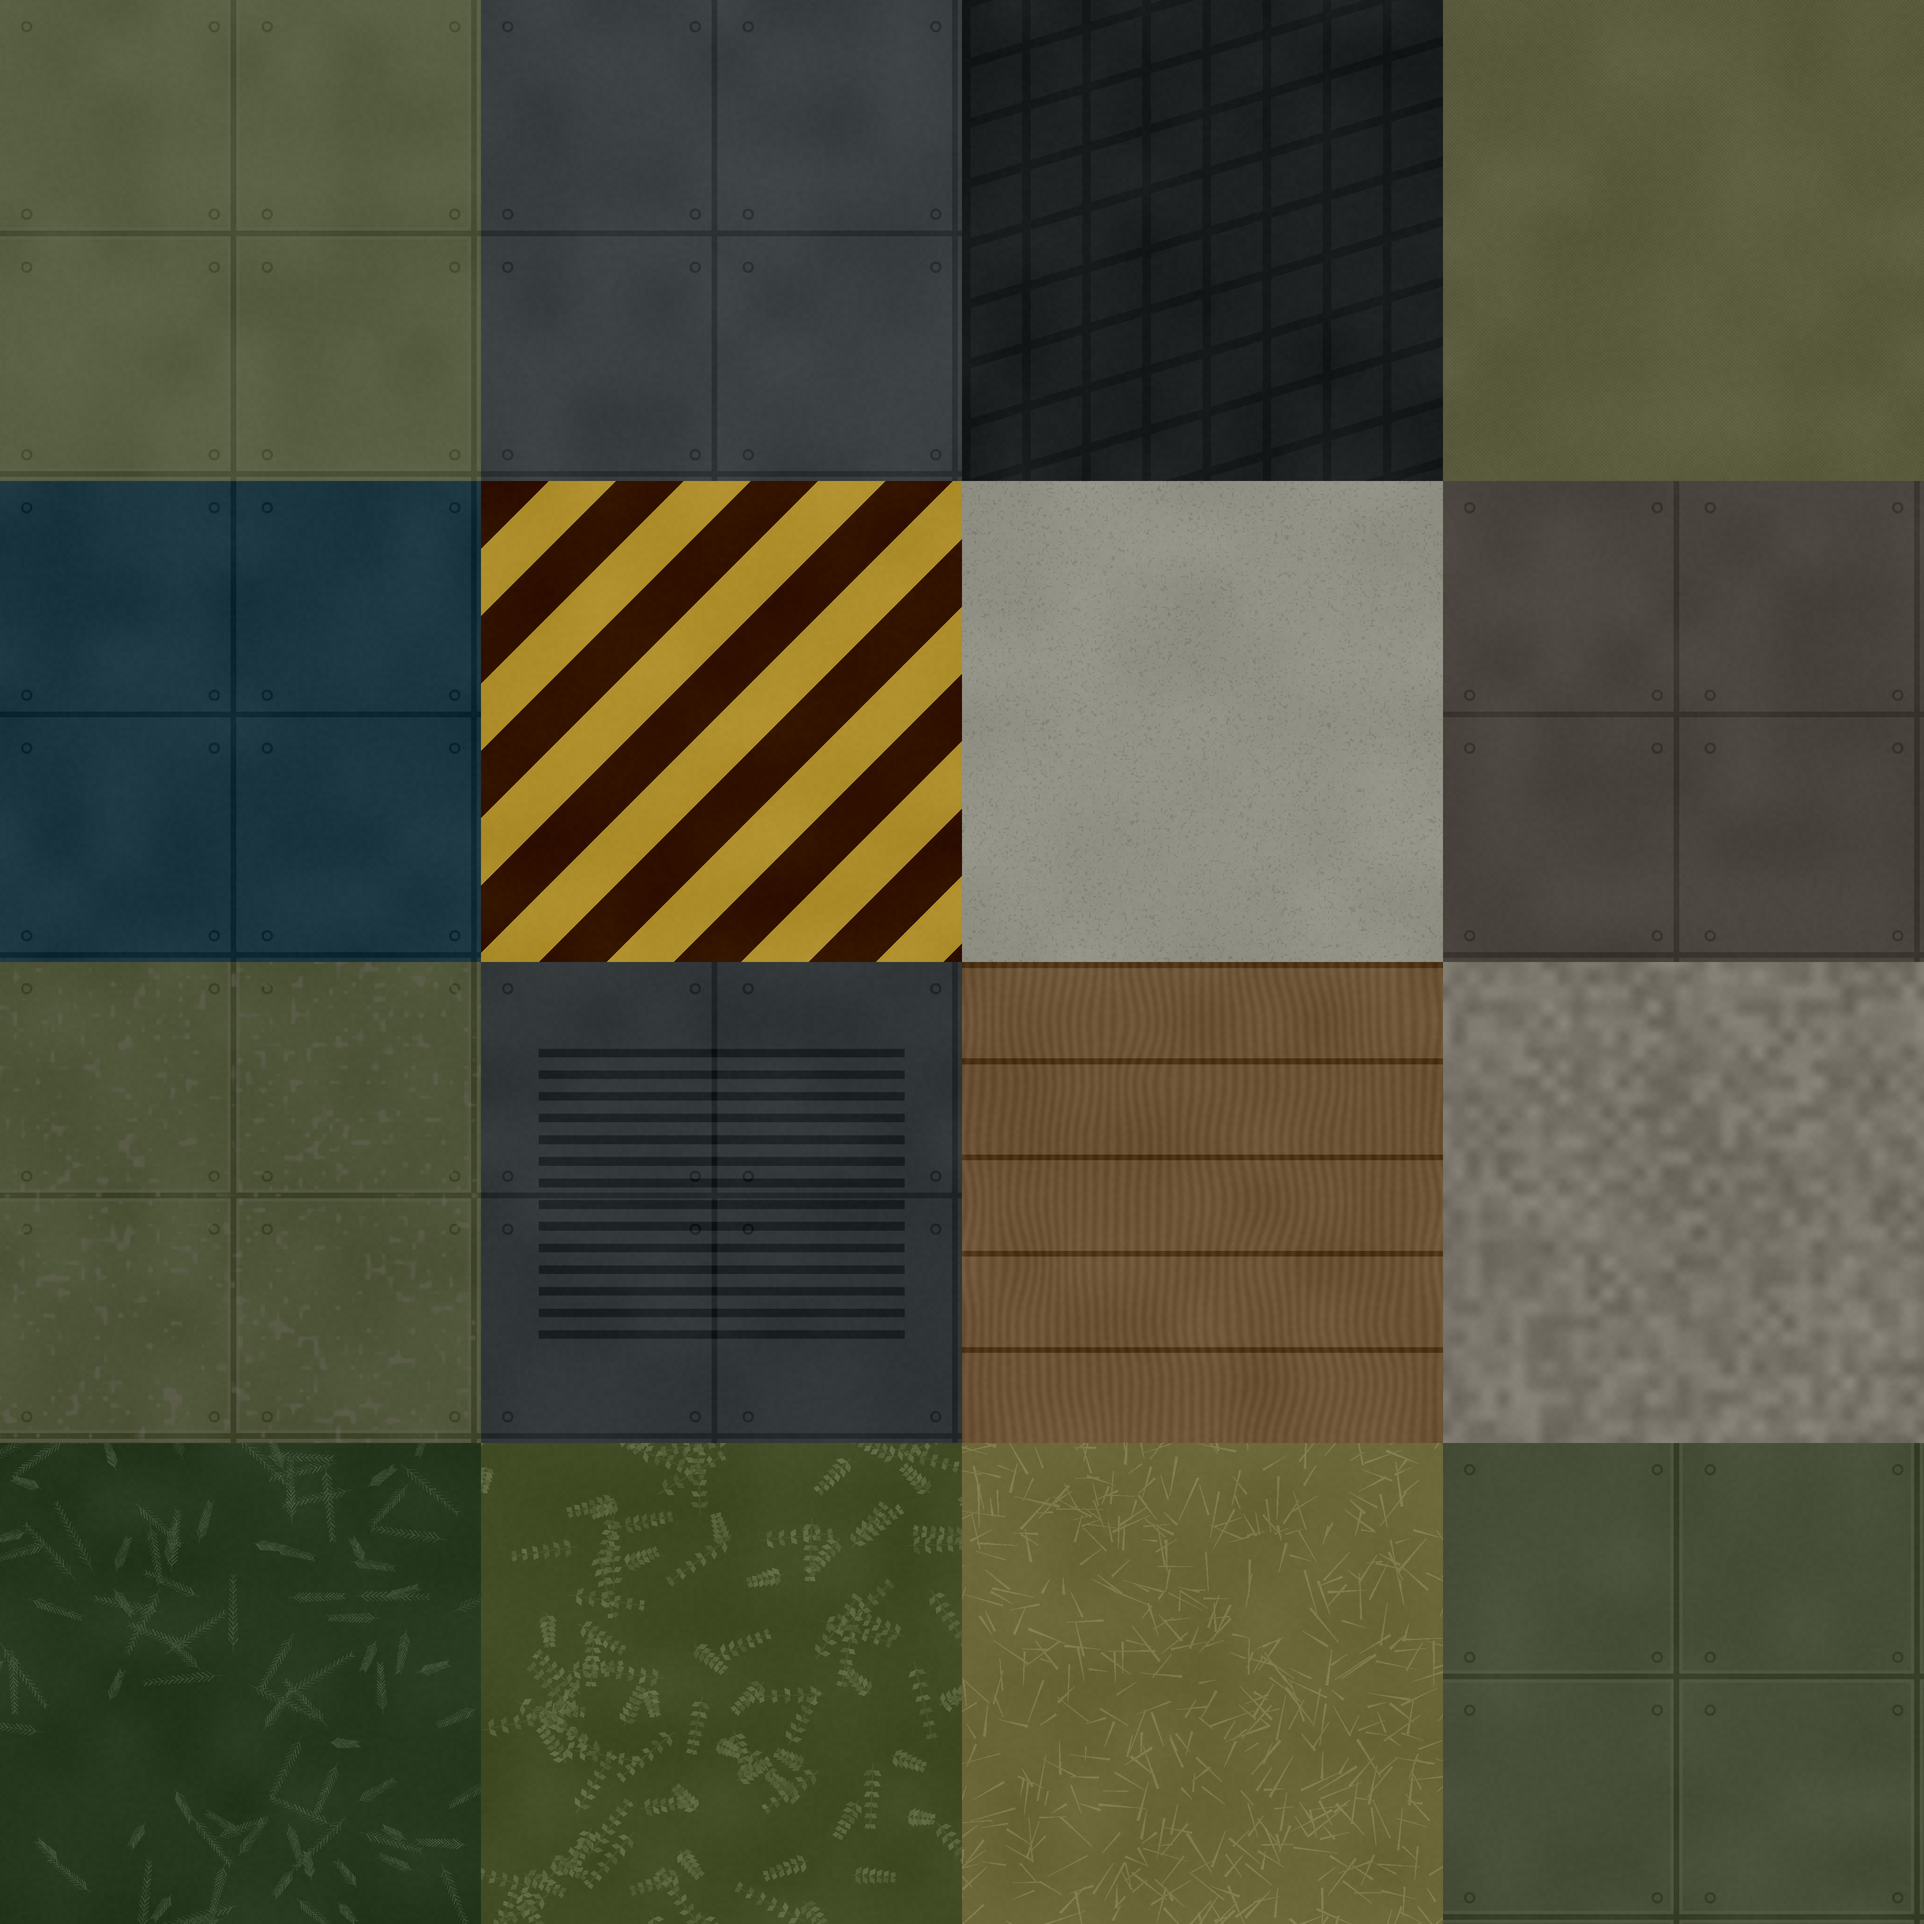
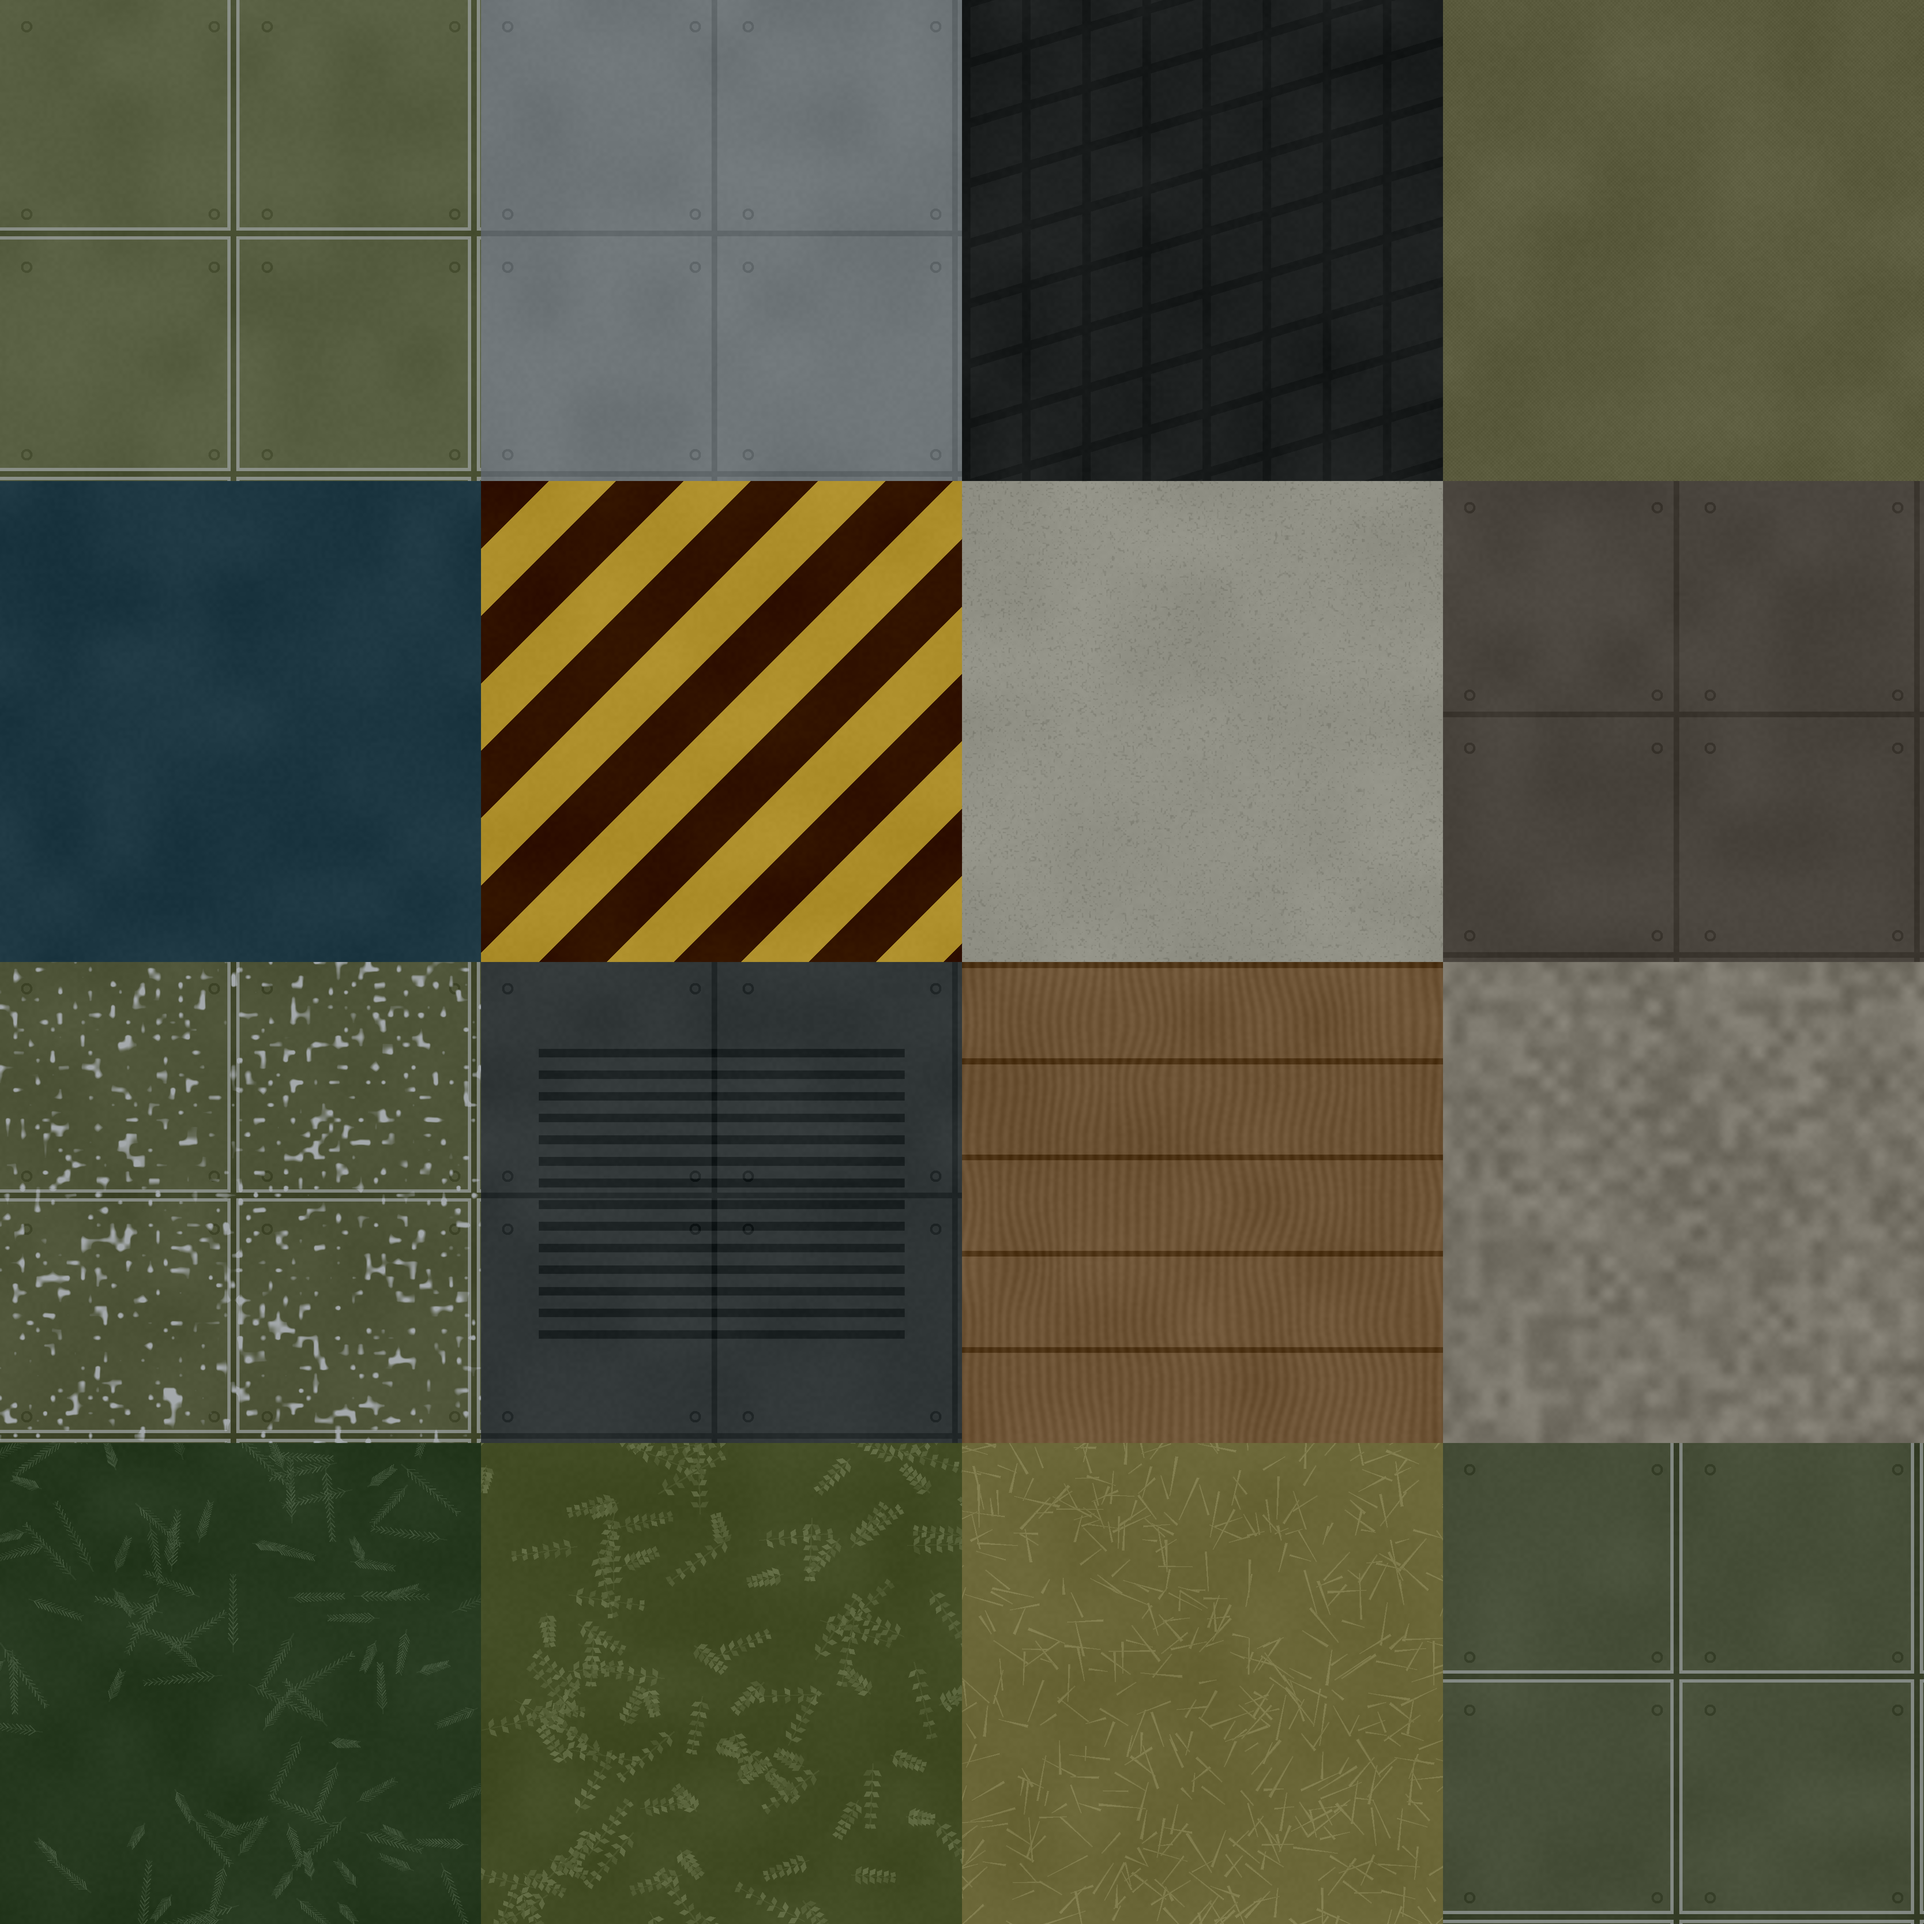
Separate dielectric coatings from exposed atlas metals

Changed region(s): [[0.0, 0.0, 0.5, 0.25], [0.0, 0.5, 0.25, 0.75], [0.75, 0.75, 1.0, 1.0]]

diff --git a/build/Author-ProductionSurfaces.py b/build/Author-ProductionSurfaces.py
@@ -56,12 +56,12 @@ def definition(path, asset_id, source, usage, cap, compressed=True, mips=None):
 def atlas():
     n = 1024
     y, x = np.mgrid[:n, :n].astype(np.float32) / n
-    palette = [(87,94,65),(58,64,65),(29,32,32),(91,91,62),
+    palette = [(87,94,65),(110,117,120),(29,32,32),(91,91,62),
                (28,54,65),(173,142,42),(145,145,134),(73,68,61),
                (78,84,56),(49,55,56),(109,83,53),(119,115,104),
                (45,64,38),(73,83,43),(113,109,62),(71,79,57)]
     rough = [.72,.56,.94,.94,.23,.78,.91,.65,.87,.68,.90,.90,.96,.96,.96,.73]
-    metal = [.12,.88,0,0,0,.05,0,.85,.32,.8,0,0,0,0,0,.14]
+    metal = [0,.88,0,0,0,0,0,.85,0,.8,0,0,0,0,0,0]
     colors, heights, orms = [], [], []
     for i, color in enumerate(palette):
         grain = noise(n, 128, 71+i)
@@ -69,7 +69,7 @@ def atlas():
         h = grain * .008
         variation = grain*2 + macro*5
         wear = np.zeros((n,n), dtype=np.float32)
-        if i in (0,1,4,7,8,9,15):
+        if i in (0,1,7,8,9,15):
             # Panel gaps and flush fasteners are actual height features.
             gap = (np.abs((x+.015) % .5-.25) > .244) | (np.abs((y+.015) % .5-.25) > .244)
             h -= gap*.035
@@ -145,10 +145,14 @@ def atlas():
             variation+=botanical*38-8
         c = np.asarray(color,dtype=np.float32)[None,None,:] + variation[:,:,None]
         if i in (0,8,15):
-            c = c*(1-wear[:,:,None]*.5) + np.array([102,100,87])*wear[:,:,None]*.5
+            # Only exposed substrate is metallic; intact paint is dielectric.
+            wear = np.clip(wear,0,1)
+            c = c*(1-wear[:,:,None]) + np.array([164,169,172])*wear[:,:,None]
         ao = np.clip(1+np.minimum(h,0)*2,.78,1)
         r = np.clip(rough[i]+macro*.025+grain*.012+wear*.08,.12,.99)
-        m = np.clip(metal[i]+wear*.35,0,1) if i in (0,8,15) else np.full_like(h,metal[i])
+        if i in (0,8,15):
+            r = r*(1-wear) + .48*wear
+        m = wear*.95 if i in (0,8,15) else np.full_like(h,metal[i])
         colors.append(c); heights.append(h); orms.append(np.stack((ao,r,m),2)*255)
     path = ROOT/'assets/source/materials/directorate/surfaces'
     def assemble(items):
